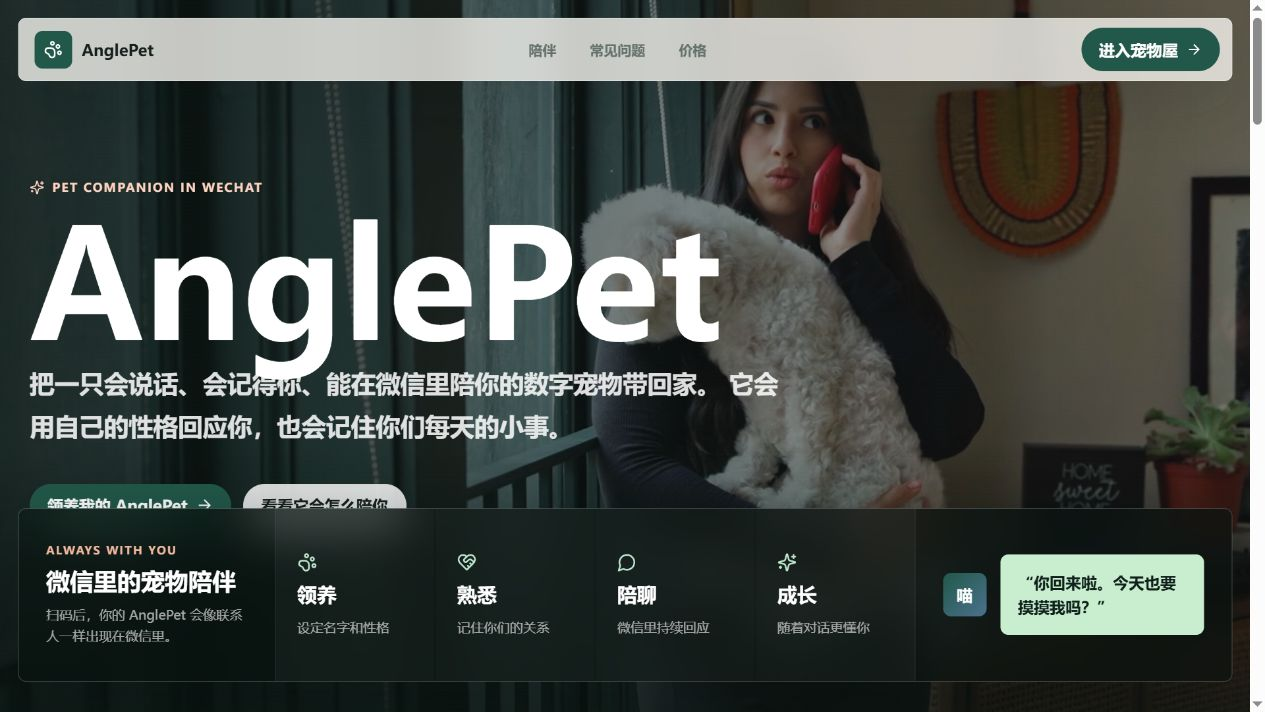
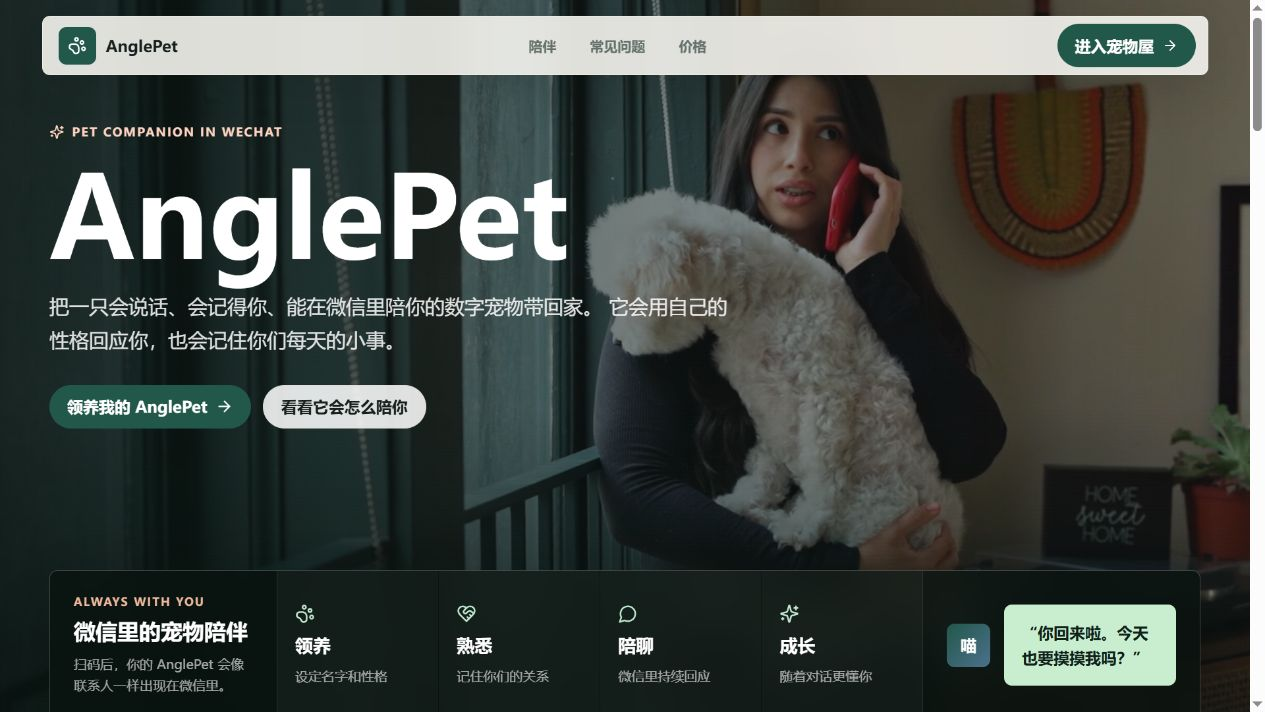
Refine landing page layout and hierarchy

diff --git a/frontend/app/globals.css b/frontend/app/globals.css
@@ -480,29 +480,31 @@ img { max-width: 100%; display: block; }
 .topbar {
   position: fixed;
   z-index: 20;
-  top: 18px;
+  top: 16px;
   left: 50%;
   transform: translateX(-50%);
-  width: min(1240px, calc(100% - 36px));
-  height: 64px;
+  width: min(1180px, calc(100% - 32px));
+  height: 60px;
   padding: 0 12px 0 16px;
   display: flex;
   align-items: center;
   justify-content: space-between;
   border: 1px solid rgba(255,255,255,.48);
   border-radius: 8px;
-  background: rgba(250,249,244,.78);
+  background: rgba(250,249,244,.88);
   backdrop-filter: blur(20px);
-  box-shadow: 0 20px 60px rgba(10,18,15,.12);
+  box-shadow: 0 14px 46px rgba(10,18,15,.16);
 }
 .navlinks { display: flex; gap: 34px; color: #66726d; font-size: 14px; font-weight: 700; }
 .navlinks a:hover { color: var(--ink); }
 .hero {
   position: relative;
-  min-height: 100vh;
-  padding: 180px max(30px, calc((100vw - 1240px) / 2)) 190px;
-  display: grid;
-  align-items: center;
+  min-height: max(760px, 100svh);
+  padding: 124px max(32px, calc((100vw - 1180px) / 2)) 32px;
+  display: flex;
+  flex-direction: column;
+  justify-content: space-between;
+  gap: 46px;
   isolation: isolate;
 }
 .hero-video {
@@ -512,6 +514,7 @@ img { max-width: 100%; display: block; }
   width: 100%;
   height: 100%;
   object-fit: cover;
+  object-position: center 42%;
   transform: scale(1.02);
 }
 .hero-shade {
@@ -519,26 +522,30 @@ img { max-width: 100%; display: block; }
   inset: 0;
   z-index: -1;
   background:
-    linear-gradient(90deg, rgba(8,19,16,.88), rgba(8,19,16,.52) 47%, rgba(8,19,16,.14)),
-    linear-gradient(0deg, rgba(8,19,16,.72), rgba(8,19,16,0) 38%);
+    linear-gradient(90deg, rgba(8,19,16,.9), rgba(8,19,16,.5) 48%, rgba(8,19,16,.12)),
+    linear-gradient(0deg, rgba(8,19,16,.78), rgba(8,19,16,0) 46%);
 }
-.hero-copy { color: white; max-width: 860px; }
+.hero-copy {
+  max-width: 780px;
+  align-self: flex-start;
+  color: white;
+}
 .hero-copy .kicker { color: #ffd4c2; }
 .hero h1 {
-  margin: 18px 0;
-  font-size: clamp(76px, 12vw, 168px);
-  line-height: .84;
+  margin: 20px 0 24px;
+  font-size: clamp(76px, 9vw, 132px);
+  line-height: .9;
   font-weight: 800;
 }
 .hero-lead {
-  max-width: 760px;
+  max-width: 700px;
   margin: 0;
   color: rgba(255,255,255,.86);
-  font-size: clamp(18px, 2.1vw, 25px);
-  line-height: 1.75;
-  font-weight: 600;
+  font-size: 20px;
+  line-height: 1.72;
+  font-weight: 500;
 }
-.hero-actions { margin-top: 36px; display: flex; gap: 12px; flex-wrap: wrap; }
+.hero-actions { margin-top: 28px; display: flex; gap: 12px; flex-wrap: wrap; }
 .conversation-dock {
   position: absolute;
   z-index: 3;
@@ -1545,9 +1552,10 @@ input:focus, textarea:focus, select:focus { border-color: var(--green); box-shad
 @media (max-width: 900px) {
   .topbar { top: 10px; width: calc(100% - 20px); }
   .navlinks { display: none; }
-  .hero { min-height: 1120px; padding: 118px 20px 470px; align-items: start; }
+  .hero { min-height: auto; padding: 104px 20px 24px; gap: 36px; }
   .hero-shade { background: linear-gradient(180deg, rgba(11,23,19,.88), rgba(11,23,19,.54)); }
   .hero h1 { font-size: 82px; }
+  .hero-lead { font-size: 18px; }
   .conversation-dock { bottom: 20px; grid-template-columns: 1fr; width: calc(100% - 24px); }
   .dock-card, .dock-chat { min-height: auto; padding: 20px; }
   .dock-chat { grid-template-columns: 1fr; }
@@ -1607,25 +1615,22 @@ input:focus, textarea:focus, select:focus { border-color: var(--green); box-shad
 
 /* Landing refinements */
 .connection-strip {
-  position: absolute;
+  position: relative;
   z-index: 3;
-  left: 50%;
-  bottom: 34px;
-  transform: translateX(-50%);
-  width: min(1240px, calc(100% - 36px));
-  min-height: 174px;
+  width: 100%;
+  min-height: 150px;
   display: grid;
-  grid-template-columns: 260px 1fr 320px;
+  grid-template-columns: 230px 1fr 280px;
   border: 1px solid rgba(255,255,255,.22);
   border-radius: 8px;
   overflow: hidden;
   color: white;
-  background: rgba(7,16,13,.64);
+  background: rgba(7,16,13,.72);
   backdrop-filter: blur(24px);
-  box-shadow: 0 28px 90px rgba(4,10,8,.38);
+  box-shadow: 0 20px 68px rgba(4,10,8,.34);
 }
 .strip-intro, .strip-flow, .strip-chat {
-  padding: 28px;
+  padding: 24px;
   border-right: 1px solid rgba(255,255,255,.12);
 }
 .strip-intro { display: grid; align-content: center; gap: 8px; }
@@ -1635,7 +1640,7 @@ input:focus, textarea:focus, select:focus { border-color: var(--green); box-shad
   font-weight: 800;
   letter-spacing: 1.6px;
 }
-.strip-intro b { font-size: 24px; }
+.strip-intro b { font-size: 22px; }
 .strip-intro small, .strip-flow small { color: rgba(255,255,255,.62); line-height: 1.6; }
 .strip-flow {
   display: grid;
@@ -1644,15 +1649,15 @@ input:focus, textarea:focus, select:focus { border-color: var(--green); box-shad
   padding: 0;
 }
 .strip-flow div {
-  min-height: 174px;
-  padding: 28px 22px;
+  min-height: 148px;
+  padding: 22px 18px;
   display: grid;
   align-content: center;
   gap: 9px;
   background: rgba(255,255,255,.035);
 }
 .strip-flow svg { color: #bde6cc; }
-.strip-flow b { font-size: 20px; }
+.strip-flow b { font-size: 18px; }
 .strip-chat {
   border-right: 0;
   display: grid;
@@ -1833,7 +1838,7 @@ input:focus, textarea:focus, select:focus { border-color: var(--green); box-shad
 .flow li p { color: rgba(255,255,255,.62); }
 
 @media (max-width: 900px) {
-  .connection-strip { position: relative; bottom: auto; left: auto; transform: none; width: 100%; margin-top: 42px; grid-template-columns: 1fr; }
+  .connection-strip { width: 100%; grid-template-columns: 1fr; }
   .strip-intro, .strip-flow, .strip-chat { border-right: 0; border-bottom: 1px solid rgba(255,255,255,.12); }
   .strip-flow { grid-template-columns: repeat(2, minmax(0, 1fr)); }
   .strip-flow div { min-height: 130px; }
@@ -2002,11 +2007,11 @@ input:focus, textarea:focus, select:focus { border-color: var(--green); box-shad
 }
 .showcase-section {
   position: relative;
-  min-height: 100vh;
-  padding: 130px max(32px, calc((100vw - 1240px) / 2));
+  min-height: min(900px, 96svh);
+  padding: 108px max(32px, calc((100vw - 1180px) / 2));
   display: grid;
-  grid-template-columns: .78fr 1.22fr;
-  gap: 68px;
+  grid-template-columns: .82fr 1.18fr;
+  gap: 60px;
   align-items: center;
   color: white;
   background:
@@ -2021,7 +2026,7 @@ input:focus, textarea:focus, select:focus { border-color: var(--green); box-shad
   position: absolute;
   inset: 0;
   z-index: 0;
-  opacity: .22;
+  opacity: .26;
   filter: saturate(.75) contrast(1.05);
   background: url("/landing/pet-dialogue.jpg") center/cover;
 }
@@ -2031,7 +2036,7 @@ input:focus, textarea:focus, select:focus { border-color: var(--green); box-shad
   inset: 0;
   z-index: 1;
   background:
-    linear-gradient(90deg, rgba(6,17,14,.95), rgba(6,17,14,.72) 50%, rgba(6,17,14,.9)),
+    linear-gradient(90deg, rgba(6,17,14,.94), rgba(6,17,14,.68) 52%, rgba(6,17,14,.87)),
     linear-gradient(rgba(255,255,255,.024) 1px, transparent 1px),
     linear-gradient(90deg, rgba(255,255,255,.024) 1px, transparent 1px);
   background-size: auto, 74px 74px, 74px 74px;
@@ -2040,6 +2045,9 @@ input:focus, textarea:focus, select:focus { border-color: var(--green); box-shad
 .showcase-section > * {
   position: relative;
   z-index: 2;
+}
+.showcase-section + .showcase-section {
+  border-top: 1px solid rgba(255,255,255,.08);
 }
 .showcase-section.section-photo-room::before {
   background-image: url("/landing/pet-dialogue.jpg");
@@ -2066,12 +2074,12 @@ input:focus, textarea:focus, select:focus { border-color: var(--green); box-shad
 }
 .showcase-copy h2 {
   margin: 16px 0 24px;
-  font: 700 clamp(48px, 6vw, 88px)/1.02 "Noto Serif SC", serif;
+  font: 700 clamp(46px, 5vw, 72px)/1.04 "Noto Serif SC", serif;
 }
 .showcase-copy h2.headline-lines {
   max-width: 720px;
-  font-size: clamp(54px, 5.4vw, 82px);
-  line-height: .98;
+  font-size: clamp(50px, 4.8vw, 70px);
+  line-height: 1.03;
 }
 .headline-lines span {
   display: block;
@@ -2080,24 +2088,24 @@ input:focus, textarea:focus, select:focus { border-color: var(--green); box-shad
 .showcase-copy p:not(.kicker) {
   max-width: 590px;
   color: rgba(255,255,255,.68);
-  font-size: 18px;
-  line-height: 1.9;
+  font-size: 17px;
+  line-height: 1.85;
 }
 .showcase-copy .primary-btn {
   margin-top: 24px;
 }
 .device-panel {
-  min-height: 590px;
+  min-height: 540px;
   border: 1px solid rgba(255,255,255,.13);
   border-radius: 8px;
   overflow: hidden;
   background: rgba(255,255,255,.055);
-  box-shadow: 0 36px 110px rgba(0,0,0,.42);
+  box-shadow: 0 30px 90px rgba(0,0,0,.36);
   backdrop-filter: blur(20px);
 }
 .device-panel figure {
   position: relative;
-  height: 360px;
+  height: 320px;
   margin: 0;
   overflow: hidden;
 }
@@ -2113,7 +2121,7 @@ input:focus, textarea:focus, select:focus { border-color: var(--green); box-shad
   object-fit: cover;
 }
 .device-content {
-  padding: 36px;
+  padding: 32px;
 }
 .device-content span, .final-copy b {
   color: #f1b99e;
@@ -2124,7 +2132,7 @@ input:focus, textarea:focus, select:focus { border-color: var(--green); box-shad
 }
 .device-content h3 {
   margin: 14px 0 10px;
-  font-size: 36px;
+  font-size: 32px;
 }
 .device-content p {
   max-width: 520px;
@@ -2172,14 +2180,14 @@ input:focus, textarea:focus, select:focus { border-color: var(--green); box-shad
   color: #53645d;
 }
 .bridge-panel {
-  padding: 34px;
+  padding: 26px;
   display: grid;
   grid-template-columns: 1fr 70px 1fr 70px 1fr;
   align-items: center;
 }
 .bridge-step {
-  min-height: 360px;
-  padding: 28px;
+  min-height: 330px;
+  padding: 24px;
   display: grid;
   align-content: center;
   justify-items: center;
@@ -2198,8 +2206,8 @@ input:focus, textarea:focus, select:focus { border-color: var(--green); box-shad
   color: #f1b99e;
 }
 .bridge-step b {
-  margin-top: 28px;
-  font-size: 28px;
+  margin-top: 24px;
+  font-size: 25px;
 }
 .bridge-step span {
   margin-top: 10px;
@@ -2218,7 +2226,7 @@ input:focus, textarea:focus, select:focus { border-color: var(--green); box-shad
 }
 .final-panel figure {
   height: 100%;
-  min-height: 590px;
+  min-height: 540px;
 }
 .final-copy {
   position: absolute;
@@ -2242,8 +2250,9 @@ input:focus, textarea:focus, select:focus { border-color: var(--green); box-shad
 @media (max-width: 900px) {
   .showcase-section {
     grid-template-columns: 1fr;
-    padding: 92px 20px;
-    gap: 36px;
+    min-height: auto;
+    padding: 84px 20px;
+    gap: 34px;
   }
   .device-panel { min-height: auto; }
   .metric-panel, .bridge-panel { grid-template-columns: 1fr; }
@@ -2252,11 +2261,20 @@ input:focus, textarea:focus, select:focus { border-color: var(--green); box-shad
   .bridge-line { width: 1px; height: 44px; margin: 0 auto; }
   .final-panel figure { min-height: 420px; }
   .showcase-copy h2.headline-lines {
-    font-size: clamp(42px, 12vw, 62px);
+    font-size: 54px;
   }
   .headline-lines span {
     white-space: normal;
   }
+}
+
+@media (max-width: 600px) {
+  .showcase-copy h2.headline-lines { font-size: 44px; }
+  .showcase-copy p:not(.kicker) { font-size: 16px; }
+  .device-panel figure { height: 260px; }
+  .device-content { padding: 26px 22px; }
+  .device-content h3 { font-size: 27px; }
+  .final-copy { left: 18px; right: 18px; bottom: 18px; padding: 22px; }
 }
 
 /* Memory page photo treatment */
@@ -2333,7 +2351,7 @@ input:focus, textarea:focus, select:focus { border-color: var(--green); box-shad
 
 .memory-board {
   width: min(900px, 100%);
-  min-height: 560px;
+  min-height: 520px;
   justify-self: center;
   position: relative;
   display: grid;
